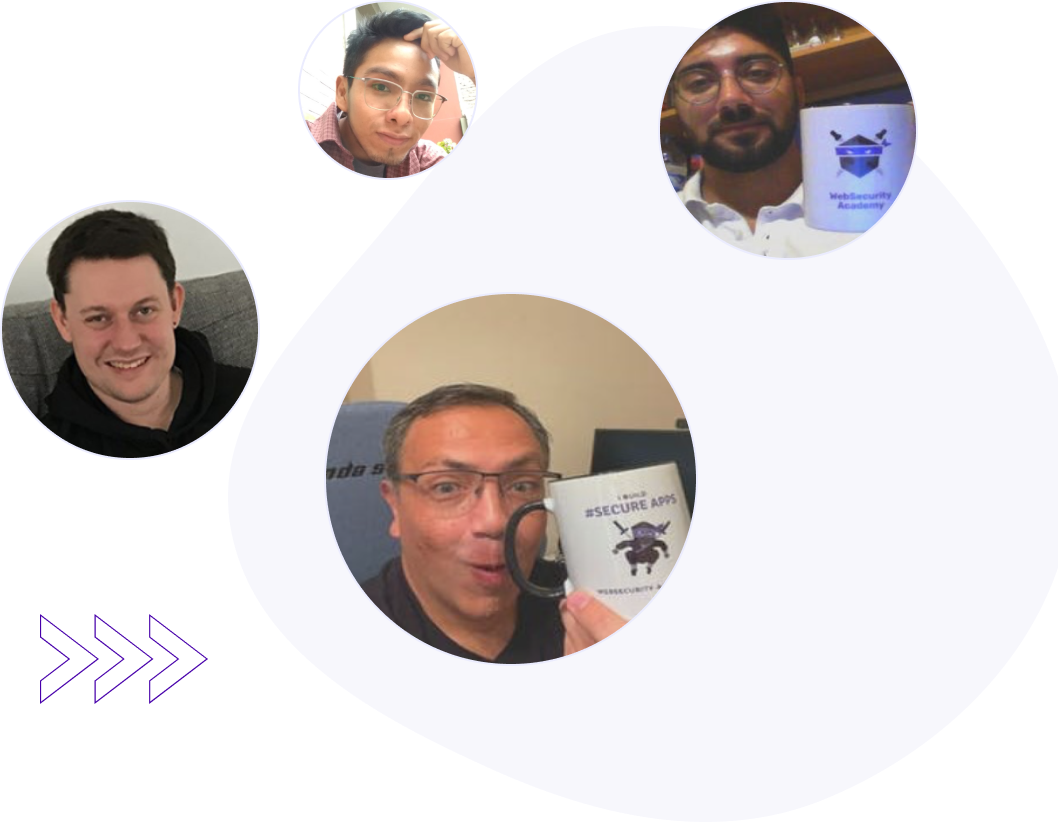
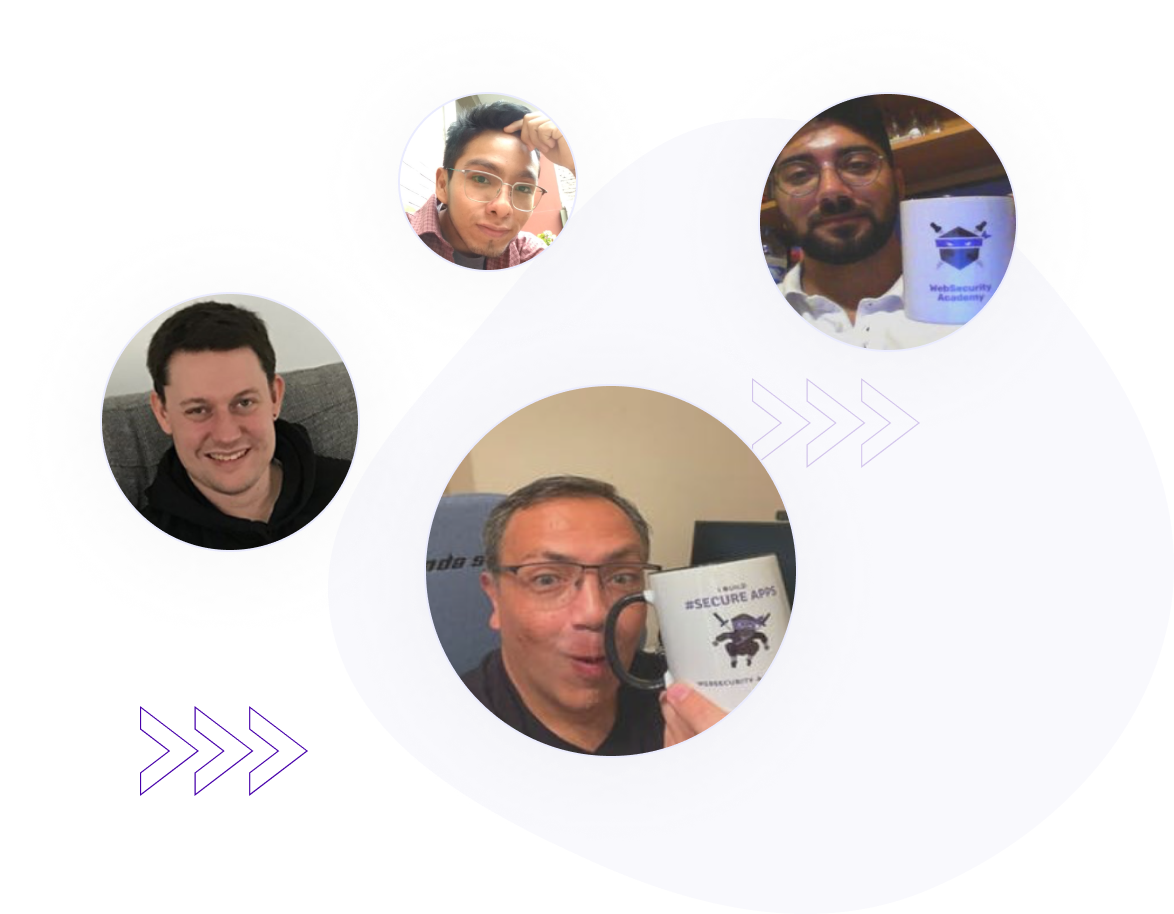
Add images to academy community section

diff --git a/source/index.html b/source/index.html
@@ -375,20 +375,17 @@ title: Dev-Academy.com - Web security | Testing & automation | Application archi
 </div>
 <div class="academy-community">
     <div class="container">
+        <svg class="academy-community-bulb-image" width="347" height="288" viewBox="0 0 347 288" fill="none" xmlns="http://www.w3.org/2000/svg">
+            <path fill-rule="evenodd" clip-rule="evenodd" d="M172.744 0.146582C222.338 -2.33085 264.928 26.956 296.693 60.6808C329.469 95.479 355.132 138.314 344.605 182.612C333.897 227.675 292.884 262.35 244.627 279.788C199.776 295.994 151.191 286.098 107.041 268.453C61.1247 250.103 10.5977 226.272 1.2735 182.533C-7.8297 139.83 33.7828 105.676 65.2138 72.2441C95.4588 40.0736 125.471 2.50805 172.744 0.146582Z" fill="#EBECFE"/>
+        </svg>
         <div class="academy-community-left">
             <h2 class="border border-large border-light">Ready to join us?</h2>
             <p>We have been operating in the market for x years. During this time we have built a global community with the goal of continuous improvement. The technology industry is looking for talented people and offers plenty of opportunities. Trust us. We know how it works.</p>
-<!--            <svg width="233" height="288" viewBox="0 0 233 288" fill="none" xmlns="http://www.w3.org/2000/svg">-->
-<!--                <path fill-rule="evenodd" clip-rule="evenodd" d="M58.7435 0.146582C108.338 -2.33085 150.928 26.956 182.693 60.6808C215.469 95.479 241.132 138.314 230.605 182.612C219.897 227.675 178.884 262.35 130.627 279.788C85.7756 295.994 37.1912 286.098 -6.95871 268.453C-52.8753 250.103 -103.402 226.272 -112.726 182.533C-121.83 139.83 -80.2172 105.676 -48.7862 72.2441C-18.5412 40.0736 11.4708 2.50805 58.7435 0.146582Z" fill="#EBECFE"/>-->
-<!--            </svg>-->
-<!--            <img src="/img/homepage/academy-community.png" alt="">-->
+            <img class="academy-community-image" src="/img/homepage/academy-community.png" class="" alt="">
             <div class="academy-community-buttons">
                 <a href="/contributors" class="button button-large button-primary">Check Contributors</a>
                 <a href="/" class="button button-large button-secondary">Join us on Discord</a>
             </div>
-        </div>
-        <div class="academy-community-right">
-
         </div>
     </div>
 </div>

diff --git a/themes/my-theme/source/css/desktop.scss b/themes/my-theme/source/css/desktop.scss
@@ -24,6 +24,12 @@
   .post-idea-header {
     font-size: $font-size-24;
   }
+
+  .academy-community-bulb-image {
+    position: absolute;
+    left: -20rem;
+    top: 3rem;
+  }
 }
 
 @media (min-width: 630px) {
@@ -492,6 +498,11 @@
       margin-right: 2rem;
     }
   }
+
+  .academy-community-image {
+    max-width: 50rem;
+    right: auto;
+  }
 }
 
 @media (min-width: 992px) {
@@ -909,6 +920,16 @@
     flex-shrink: 0;
     margin-right: 2rem;
   }
+
+  .academy-community-left {
+    width: 55%;
+  }
+
+  .academy-community-image {
+    position: absolute;
+    left: 100%;
+    top: 0;
+  }
 }
 
 @media (min-width: 1180px) {
@@ -1162,5 +1183,10 @@
 
   .article-toc {
     flex-basis: 23rem;
+  }
+
+  .academy-community-image {
+    top: -5rem;
+    left: 120%;
   }
 }

diff --git a/themes/my-theme/source/css/pages/_homepage.scss b/themes/my-theme/source/css/pages/_homepage.scss
@@ -479,6 +479,27 @@
     text-transform: uppercase;
     font-size: $font-size-46;
   }
+
+  .container {
+    position: relative;
+  }
+}
+
+.academy-community-left {
+  position: relative;
+  z-index: $z-index-100;
+}
+
+.academy-community-bulb-image {
+  position: absolute;
+  left: -20rem;
+  top: 15rem;
+}
+
+.academy-community-image {
+  position: relative;
+  right: -4rem;
+  margin-bottom: 4rem;
 }
 
 .academy-community-buttons {

diff --git a/themes/my-theme/source/css/_base.scss b/themes/my-theme/source/css/_base.scss
@@ -26,6 +26,7 @@ body {
   -webkit-font-smoothing: antialiased;
   -moz-osx-font-smoothing: grayscale;
   padding-top: 7rem;
+  overflow-x: hidden;
 
   ::selection {
     color: $light-200;
